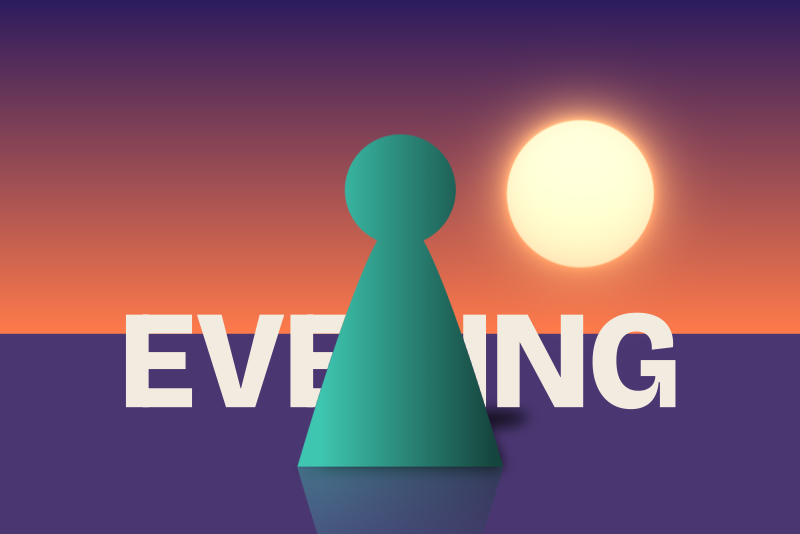
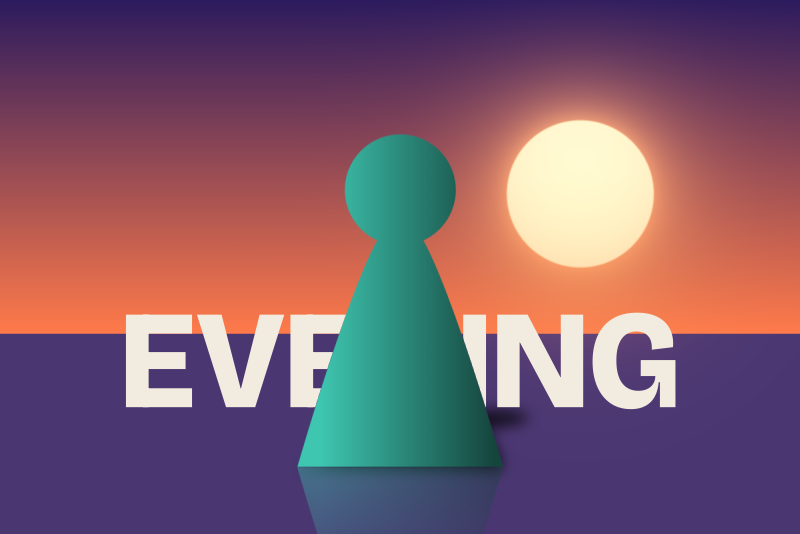
docs(examples): c5c room, a glow past the box of its layer
A sun, a figure and a neon word glow by a light reference, each on a
layer as tight as its drawing and on a frame padded by hand: the same
picture. The evening of c4b is redrawn, its sun glow now spilling.

Claude-Session: https://claude.ai/code/session_01GHJQKzm47qpsHbdJHshBR9

Changed region(s): [[0.625, 0.0899, 0.8438, 0.2397], [0.6875, 0.2097, 0.75, 0.2397]]

diff --git a/docs/examples/c5c_room.py b/docs/examples/c5c_room.py
@@ -1,0 +1,141 @@
+"""C5c: room for light. A glow past the box of the layer that makes it.
+
+Three things that glow, each drawn twice. Above, the layer is tight: its frame is exactly what it draws (a disc in a
+frame its own size, a line of type, a figure in its bounding box) and the glow is a reference to it, made light, with a
+look: the look's room is image's. Below, the same layers on a frame padded by hand, the way a glow had to be made before
+the room. The two rows are the same picture, to the rounding of vector's 8-bit edges: the layer's look runs on a raster
+grown by the room image says the look needs, and a light layer shows it.
+
+Every picture is made here from drawings and type, so the example needs nothing but the package.
+"""
+
+import json
+
+import bullterrier_scene as bts
+
+W, H = 1200, 660
+FONT = "bricolage_grotesque"
+GROUND, INK = "#0d1020", "#c9cde0"
+KAPPA = 0.5522847498  # the control distance of a cubic that follows a quarter of a circle, in units of the radius
+CENTRES = (210, 600, 990)  # the middle of each column
+ROW_Y = (190, 480)  # the middle of each row
+PAD = 90  # the hand-made frame's margin on each side: less than the glow needs, so the look's room is at work there too
+# `Recipe([fx.bloom(radius=18, threshold=0.2, amount=2.0)]).to_dict()`: light bleeding from the sun
+SUN_GLOW = {
+    "steps": [
+        {
+            "effect": "bloom",
+            "params": {"radius": 18.0, "threshold": 0.2, "amount": 2.0},
+            "opacity": 1.0,
+            "blend_mode": "normal",
+        }
+    ]
+}
+# `Recipe([fx.bloom(radius=7, threshold=0.2, amount=3.0)]).to_dict()`: a neon tube's glow
+NEON_GLOW = {
+    "steps": [
+        {
+            "effect": "bloom",
+            "params": {"radius": 7.0, "threshold": 0.2, "amount": 3.0},
+            "opacity": 1.0,
+            "blend_mode": "normal",
+        }
+    ]
+}
+# `Recipe([fx.gaussian_blur(radius=9)]).to_dict()`: a soft halo
+SOFT_HALO = {
+    "steps": [
+        {"effect": "gaussian_blur", "params": {"radius": 9.0}, "opacity": 1.0, "blend_mode": "normal"},
+    ]
+}
+
+
+def ellipse(cx: float, cy: float, r: float) -> str:
+    """The path of a circle of radius `r` about (`cx`, `cy`), as four cubics."""
+    k = KAPPA * r
+    return (
+        f"M{cx + r} {cy} C{cx + r} {cy + k} {cx + k} {cy + r} {cx} {cy + r} "
+        f"C{cx - k} {cy + r} {cx - r} {cy + k} {cx - r} {cy} C{cx - r} {cy - k} {cx - k} {cy - r} {cx} {cy - r} "
+        f"C{cx + k} {cy - r} {cx + r} {cy - k} {cx + r} {cy} Z"
+    )
+
+
+def drawing(path: str, color: str, size: tuple[float, float]) -> str:
+    """A drawing document of one path in a frame of `size`, in the form vector's `Drawing.to_json()` writes."""
+    stack = {"items": [[{"path": path}]], "size": list(size)}
+    return json.dumps({"root": [{"stack": stack}, {"fill": {"color": color}}], "version": 1})
+
+
+def sun(pad: float) -> bts.Layer:
+    """A disc of radius 60 in a square frame of 120 + 2 `pad`, put so that its middle is at the column's middle."""
+    frame = 120 + 2 * pad
+    return bts.Layer.drawing(drawing(ellipse(frame / 2, frame / 2, 60), "#ffc060", (frame, frame)))
+
+
+def figure(pad: float) -> bts.Layer:
+    """A head and shoulders (80 by 120, its bounding box) in a frame `pad` larger on each side."""
+    body = (
+        f"M{pad} {pad + 120} L{pad} {pad + 90} C{pad} {pad + 64} {pad + 80} {pad + 64} {pad + 80} {pad + 90} "
+        f"L{pad + 80} {pad + 120} Z"
+    )
+    path = ellipse(pad + 40, pad + 24, 24) + " " + body
+    return bts.Layer.drawing(drawing(path, "#ffe3b8", (80 + 2 * pad, 120 + 2 * pad)))
+
+
+def neon(pad: float) -> bts.Layer:
+    """The word NEON: bare when `pad` is 0, else inside a group whose frame is `pad` larger on each side."""
+    word = {"font": FONT, "size": 110, "color": "#ff5fa8", "align": "center", "axes": {"wght": 800}}
+    if pad == 0:
+        return bts.Layer.text("NEON", **word)
+    inner = bts.Scene(2 * 190 + 2 * pad, 2 * 90 + 2 * pad).add(
+        bts.Layer.text("NEON", **word).place(dx=190 + pad, dy=110 + pad)
+    )
+    return bts.Layer.scene(inner)
+
+
+def glowing(name: str, look: dict) -> bts.Layer:
+    """The glow of the layer `name`: a reference to it with a look, made light and screened."""
+    return bts.Layer.of(name).named(name + "_glow").look(look).as_light().blend("screen")
+
+
+def row(index: int, pad: float) -> list[bts.Layer]:
+    """The three things of one row, each with its glow, tight (`pad` 0) or padded by hand."""
+    y = ROW_Y[index]
+    suffix = str(index)
+    sun_layer = sun(pad).named("sun" + suffix).place(dx=CENTRES[0] - 60 - pad, dy=y - 60 - pad)
+    figure_layer = figure(pad).named("figure" + suffix).place(dx=CENTRES[1] - 40 - pad, dy=y - 60 - pad)
+    # the word's baseline is 40 below the row's middle; its centre column is the column's middle
+    neon_layer = neon(pad).named("neon" + suffix)
+    neon_layer = neon_layer.place(
+        dx=CENTRES[2] - (0 if pad == 0 else 190 + pad), dy=y + 40 - (0 if pad == 0 else 110 + pad)
+    )
+    return [
+        sun_layer,
+        figure_layer,
+        neon_layer,
+        glowing("sun" + suffix, SUN_GLOW),
+        glowing("figure" + suffix, SOFT_HALO),
+        glowing("neon" + suffix, NEON_GLOW),
+    ]
+
+
+def caption(words: str, y: float) -> bts.Layer:
+    """A line of small type, left aligned."""
+    return bts.Layer.text(words, font=FONT, size=26, color=INK, axes={"wght": 500}).place(dx=40, dy=y)
+
+
+def build() -> bts.Scene:
+    """The sheet: a tight layer and its glow above, the same on a frame padded by hand below."""
+    return bts.Scene(W, H).add(
+        bts.Layer.fill(GROUND).named("ground"),
+        *row(0, 0),
+        *row(1, PAD),
+        caption("a layer as tight as what it draws: the look's room is image's", 328),
+        caption("the same layers on a frame padded by hand", 618),
+    )
+
+
+if __name__ == "__main__":
+    from bullterrier_image import imageio
+
+    imageio.save(build().render(W), "room.png")

diff --git a/tools/look.py b/tools/look.py
@@ -40,6 +40,8 @@ PIECES: list[Piece] = [
     ("c4c_groups.py", "build", 800, GALLERY / "c4c-groups.png"),
     ("c5a_looks_on_everything.py", "build", 1200, LOOK / "c5a-looks-on-everything.png"),
     ("c5a_looks_on_everything.py", "build", 800, GALLERY / "c5a-looks-on-everything.png"),
+    ("c5c_room.py", "build", 1200, LOOK / "c5c-room.png"),
+    ("c5c_room.py", "build", 800, GALLERY / "c5c-room.png"),
     ("c6a_covers.py", "contact_sheet", 808, LOOK / "c6a-six-covers.png"),
     ("c6a_covers.py", "contact_sheet", 808, GALLERY / "c6a-six-covers.png"),
     ("c6b_saved_scene.py", "cover_by_values", 640, GALLERY / "p1-cli.png"),

diff --git a/tests/example_scenes.py b/tests/example_scenes.py
@@ -176,6 +176,7 @@ MORE_SCENES: dict[str, Callable[[], Scene]] = {
     "evening": lambda: _built("c4b_references"),
     "groups": lambda: _built("c4c_groups"),
     "looks_on_everything": lambda: _built("c5a_looks_on_everything"),
+    "room": lambda: _built("c5c_room"),
     "six_covers": lambda: _built("c6a_covers"),
     "badge": lambda: _built("badge_scene_in_scene"),
     "chrome_style": chrome_style,
